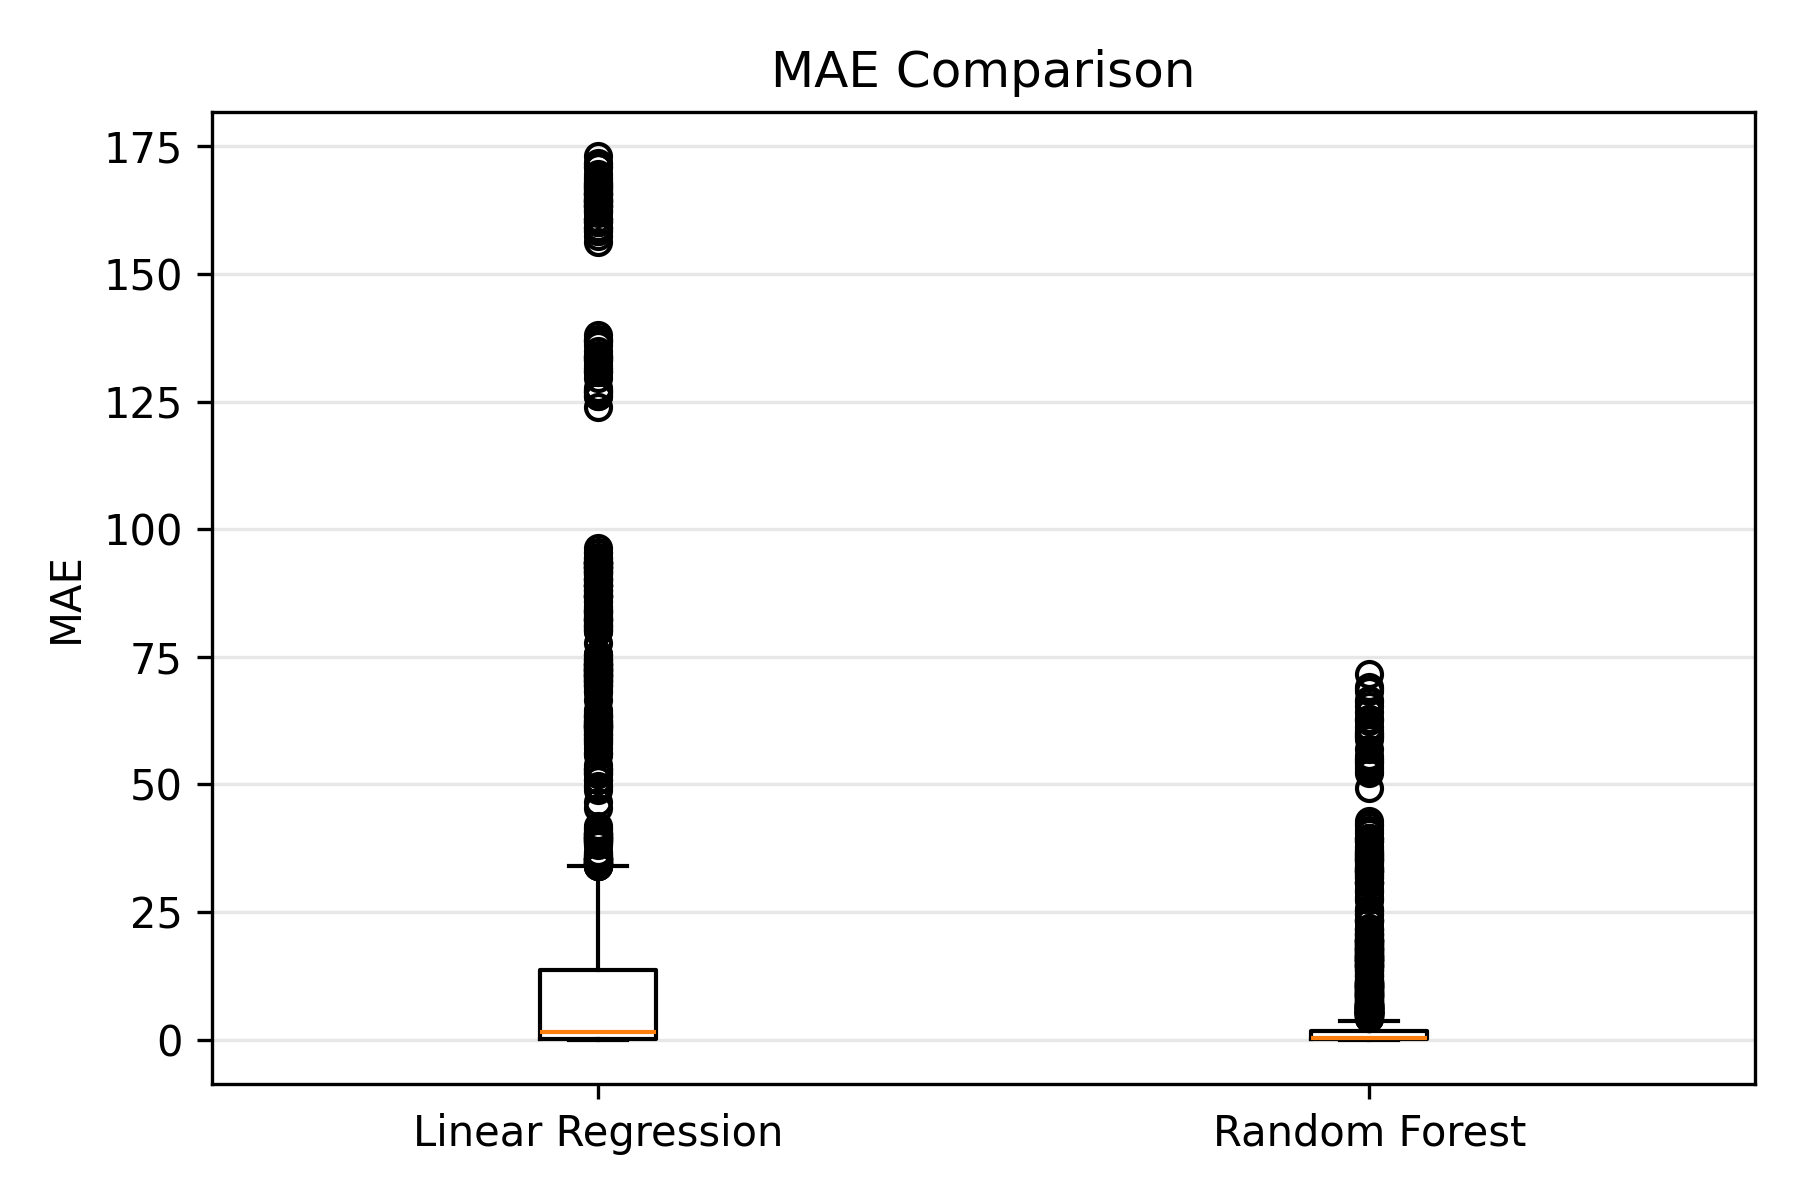
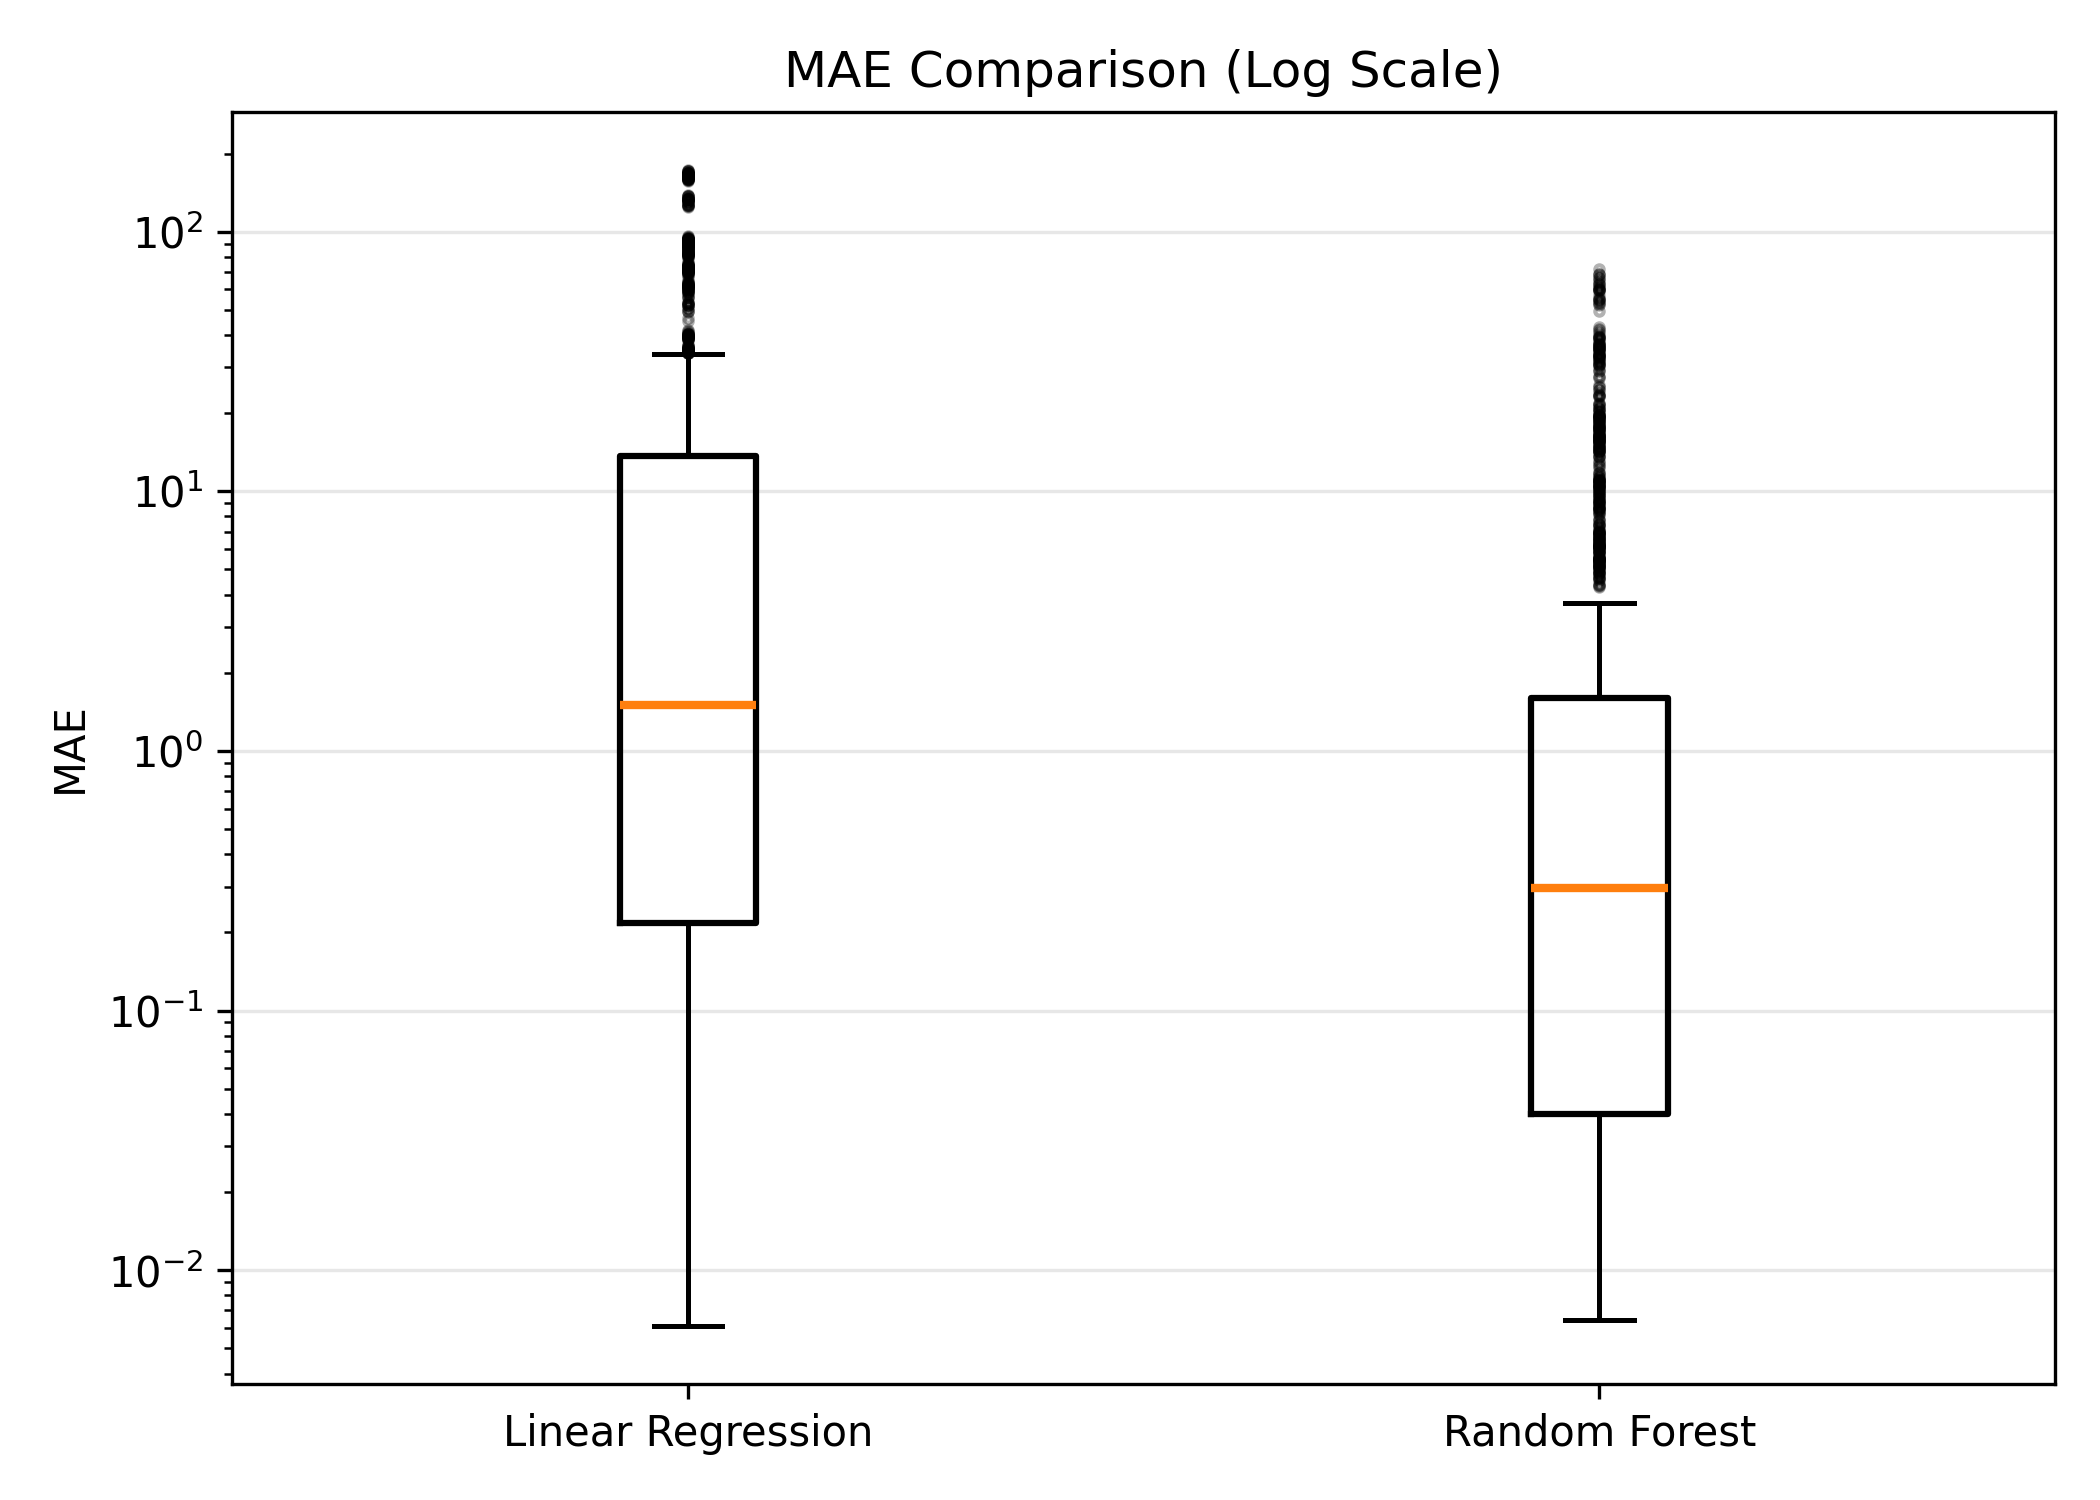
update report and fixes

Changed region(s): [[0.0311, 0.0308, 0.9956, 0.9867]]

diff --git a/pic.py b/pic.py
@@ -2,6 +2,7 @@ import pandas as pd
 import matplotlib.pyplot as plt
 import os
 
+# 讀你的結果
 df = pd.read_csv("results_all/raw_results_all.csv")
 
 os.makedirs("figures", exist_ok=True)
@@ -12,16 +13,24 @@ for metric in metrics:
     lr = df[df["model"] == "LinearRegression"][metric]
     rf = df[df["model"] == "RandomForest"][metric]
 
-    plt.figure(figsize=(6,4))
+    plt.figure(figsize=(7,5))
 
     plt.boxplot(
         [lr, rf],
-        labels=["Linear Regression", "Random Forest"]
+        labels=["Linear Regression", "Random Forest"],
+        showfliers=True,
+        flierprops=dict(marker='o', markersize=2, alpha=0.3),  # ⭐ 小而透明
+        medianprops=dict(linewidth=2),
+        boxprops=dict(linewidth=1.5),
+        whiskerprops=dict(linewidth=1.2),
+        capprops=dict(linewidth=1.2)
     )
 
-    plt.title(f"{metric} Comparison")
-    plt.ylabel(metric)
+    # ⭐ 核心：log scale
+    plt.yscale("log")
 
+    plt.title(f"{metric} Comparison (Log Scale)")
+    plt.ylabel(metric)
     plt.grid(True, axis='y', alpha=0.3)
 
     plt.tight_layout()
